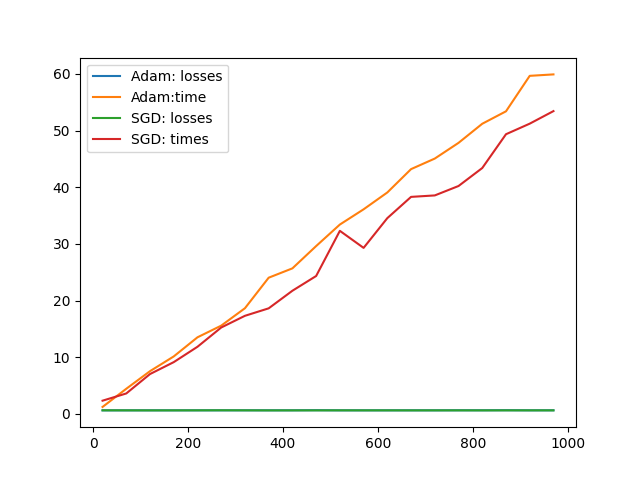
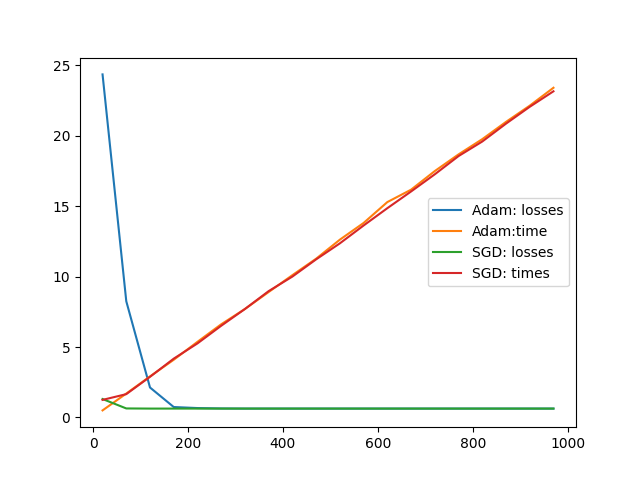
full batch size

diff --git a/P3G.py b/P3G.py
@@ -9,9 +9,8 @@ from train_loop import Train
 import time
 device = torch.device("cuda") if torch.cuda.is_available() else torch.device("cpu")
 n_epochs = np.arange(20, 1000, 50)
-batch_size = 64
-train_loader = get_train_loader(batch_size=batch_size)
-val_loader = get_val_loader(batch_size=batch_size)
+train_loader = get_train_loader()
+val_loader = get_val_loader()
 SGD_times = []
 Adam_times = []
 train_SGD_losses = []
